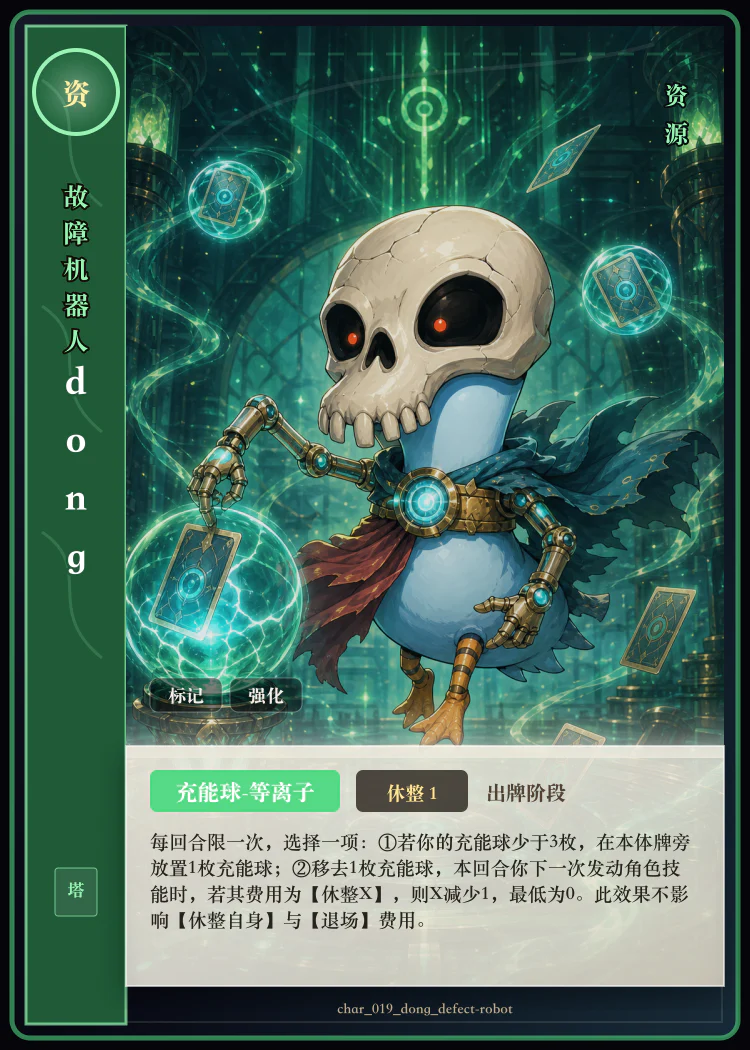
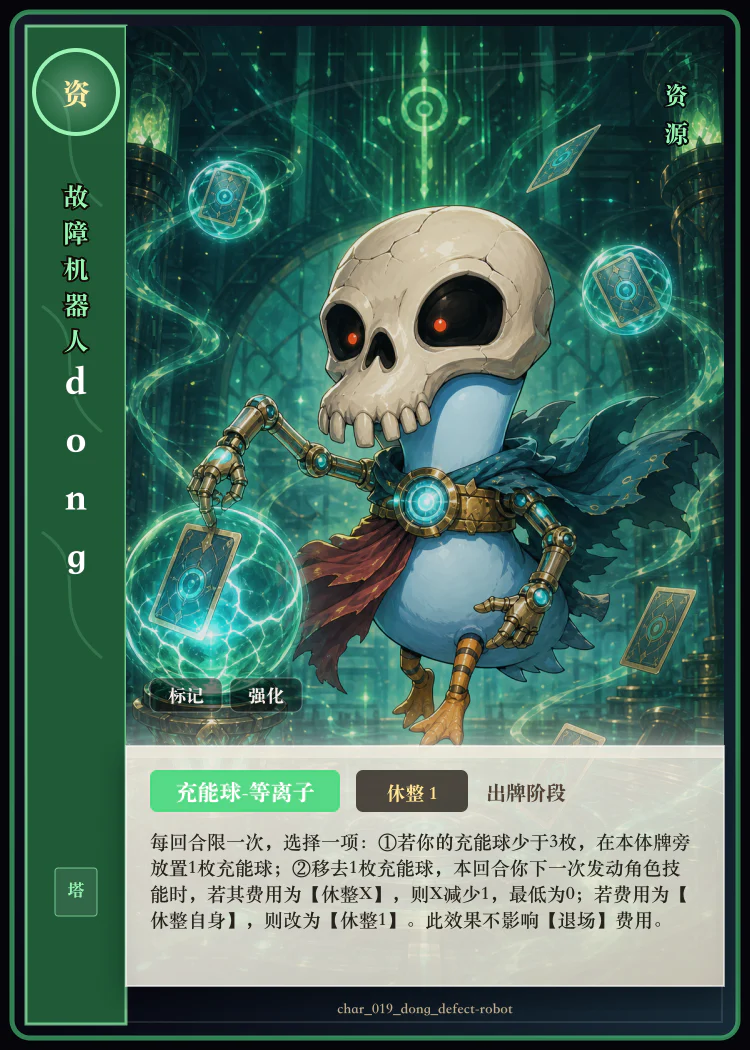
balance(cards): 加强故障机器人等离子球

Changed region(s): [[0.184, 0.8229, 0.92, 0.8838]]

diff --git a/src/lib/deck-guides.ts b/src/lib/deck-guides.ts
@@ -67,7 +67,7 @@ export const deckGuides: Record<string, DeckGuide> = {
     flow: ["宣言转化", "积攒充能球", "激发黑暗或等离子", "触发拟态核心", "Mega 后连续补位"],
     priorities: [
       "优先保留能把牌视为其他牌使用或打出的角色，它们是临时补位链的起点。",
-      "三张故障机器人共享至多3枚充能球：没有合适目标时先充能，需要展开时再转化为减伤、蓄能黑暗【出刀】或技能降费。",
+      "三张故障机器人共享至多3枚充能球：没有合适目标时先充能，需要展开时再转化为减伤、蓄能黑暗【出刀】或技能降费；等离子球还能将下一次【休整自身】改为【休整1】。",
       "转化前注意预留角色位；临时补位会直接从角色牌堆顶暗置上阵。",
       "临时角色可以发动技能或支付休整费用；若未离场，会在结束阶段自动休整。",
     ],

diff --git a/playtest/balance-notes.md b/playtest/balance-notes.md
@@ -53,7 +53,7 @@
 - 三张【故障机器人】共享的充能球上限为3枚；需测试“先充能、后使用”的节奏是否过慢，以及三张同时上阵时是否过于稳定。
 - 【充能球-黑暗】可将至多3枚充能球转化为对应伤害的【出刀】，既能被【闪避】响应，又可触发【拟态核心】且不计入通常的出刀次数；需测试其蓄能爆发与Mega补位形成的连续进攻强度。
 - 【充能球-闪电】需要先充能、再由己方其他角色发动技能才能造成1点伤害；需测试这条支援链是否过慢，以及直伤是否容易绕过防御体系。
-- 【充能球-等离子】只降低下一次【休整X】费用；需测试降至0后角色留场是否会与无次数限制的角色技能形成异常循环。
+- 【充能球-等离子】可降低下一次【休整X】费用，或将【休整自身】改为【休整1】；需测试降至0后角色留场，以及原本依靠休整自身限制频率的技能改为休整其他角色后，是否会形成异常循环。
 - 炸弹标记是否需要独立规则说明。
 - 角色移出游戏（鹈鹕）和退场的区别是否需要在 rules.md 中补充。
 - 技能复制（变形怪）的边界情况：费用归谁承担、若复制的技能也涉及退场如何处理。

diff --git a/playtest/changelog.md b/playtest/changelog.md
@@ -4,6 +4,7 @@
 
 - 【故障机器人-摆子】由闪电球改为黑暗球：可一次移去任意数量的充能球，视为使用伤害等于移去数量的【出刀】，表现黑暗球的蓄能爆发。
 - 【故障机器人-绫珑】由【系统重置】重做为闪电球：移去充能球后，令本回合下一次己方其他角色技能结算附带1点伤害，强化支援定位。
+- 加强【故障机器人-dong】的等离子球：下一次角色技能费用为【休整自身】时，改为【休整1】；【退场】费用仍不受影响。
 - 四张故障机器人现在分别对应冰霜、黑暗、等离子与闪电充能球；仍共用同一种充能球标记，角色主定位及六类数量均不改变。
 
 ## 2026-08-10 忍者-绫珑技能重做
